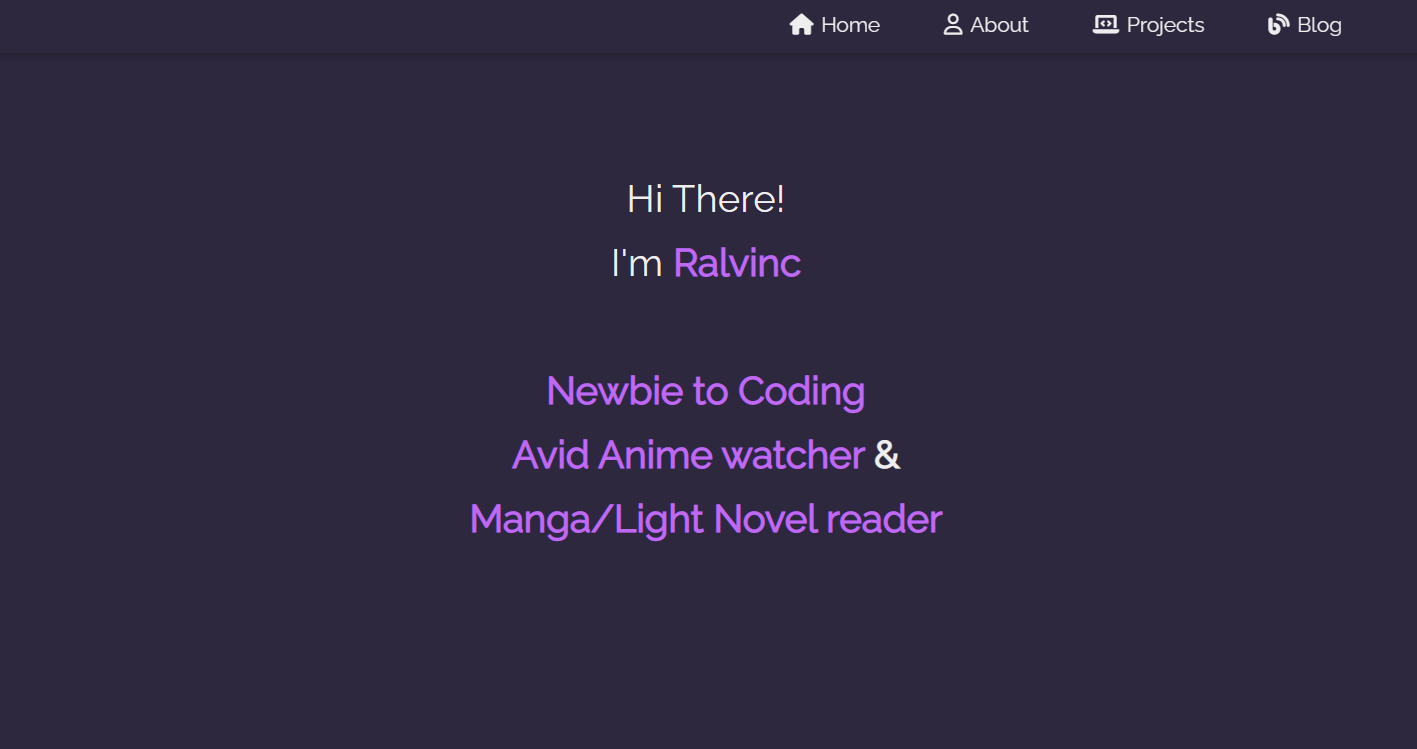
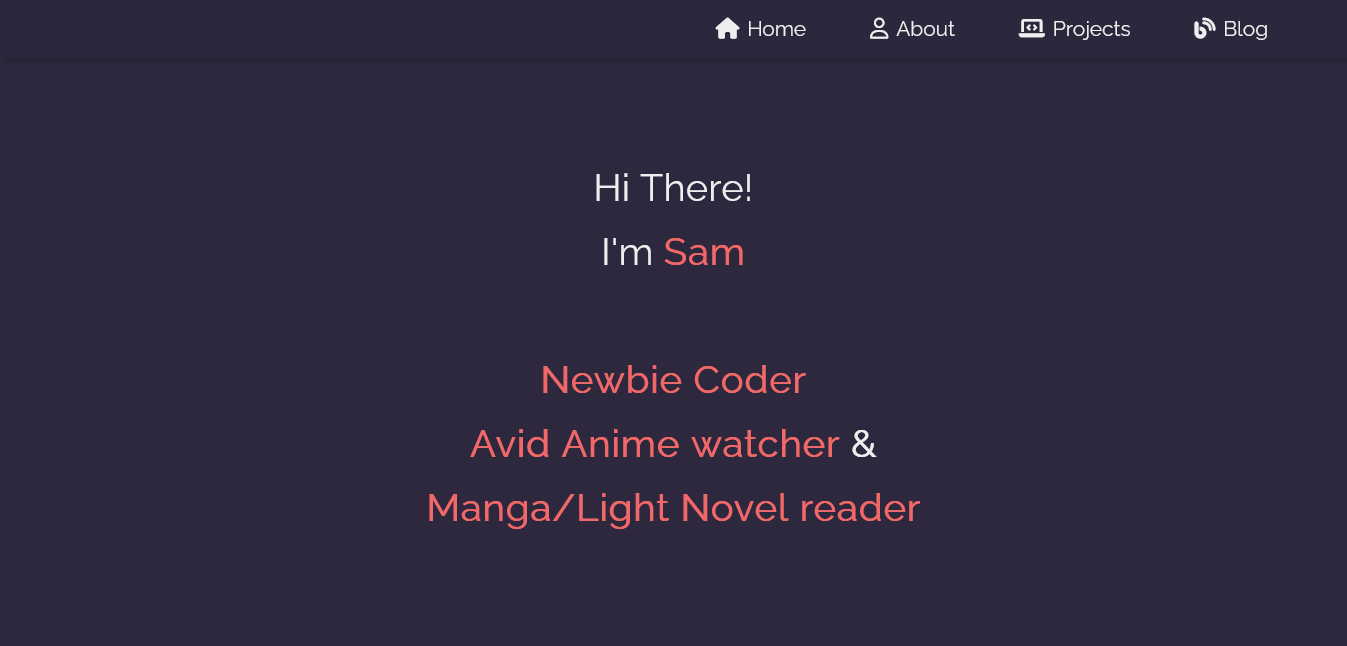
Add files via upload

diff --git a/src/components/Projects.jsx b/src/components/Projects.jsx
@@ -1,23 +1,82 @@
-function Projects() {
-  return (
-    <div className='projects'>
-      <div className='projects-title'>My Coding Projects (Under Maintenance)</div>
+import project0_image from '../images/website.png';
+import project1_image from '../images/samstree.png';
+import project2_image from '../images/bluearchive.png';
+import project3_image from '../images/my-website.png';
+import project4_image from '../images/homepage.png';
 
-      <div className='projects-wrapper'>
-        {Array.from({ length: 5 }, (_, i) => (
-          <div className="project" key={i}>
-            <img src={`https://static.wixstatic.com/media/90186d_6851a46df2de44f8ab80d4848dcbb585~mv2.gif`} alt={`Under maintenance`} />
+function Projects() {
+
+    return (
+      <div className='projects'>
+        <div className='projects-title'>My Coding Projects</div>
+
+        <div className='projects-wrapper'>
+          <div className="project">
+            <img src={project4_image} />
 
             <div className='project-links'>
-              <span>Under Maintenance</span>
+              <a href="https://github.com/KirixenYT/Gogoanime" target="_blank">Code</a>
+              <a href="http://gogoanimez.free.nf/" target="_blank">Demo</a>
             </div>
 
-            <p>This project is currently undergoing maintenance. We apologize for any inconvenience and appreciate your patience.</p>
-          </div>
-        ))}
-      </div>
-    </div>
-  );
-}
+            This is a <span><b>clone of gogoanime, improved version of it</b></span>, further you watch animes on here. This program uses a <span>API</span> for getting the animes and the <span>details</span>.<br /><br /><br />
+            Built with: <span>Php</span>
+          </div> 
 
-export default Projects;
+          <div className="project">
+            <img src={project3_image} />
+
+            <div className='project-links'>
+              <a href="https://github.com/KirixenYT/Portfolio" target="_blank">Code</a>
+              <a href="https://kirisam.vercel.app/" target="_blank">Demo</a>
+            </div>
+
+            This is my <span><b>personal website</b></span> where I give a brief introduction about myself along with a display of the coding projects I worked on. Additionally, it serves as a platform to share my personal thoughts and experiences related to anime.<br /><br />
+
+            Built with: <span>HTML</span> | <span>CSS</span> | <span>Javascript (React)</span>
+          </div>
+
+          <div className="project">
+            <img src={project2_image} />
+
+            <div className='project-links'>
+              <a href="https://github.com/KirixenYT/Blue-archive" target="_blank">Code</a>
+              <a href="https://blue-archive-phi.vercel.app/" target="_blank">Demo</a>
+            </div>
+
+            <b><span>Blue archive</span></b> is a website in blue archive style.
+            Users can change the background, and click on the link.<br /><br /><br /><br /><br />
+
+            Built with: <span>HTML</span> | <span>CSS</span> | <span>Vue</span> | <span>javascript</span>
+          </div> 
+
+          <div className="project">
+            <img src={project1_image} />
+
+            <div className='project-links'>
+              <a href="https://github.com/KirixenYT/samstree" target="_blank">Code</a>
+              <a href="https://samstree.netlify.app/" target="_blank">Demo</a>
+            </div>
+
+            <b><span>Sam's Tree</span></b> is a web application like Link tree where u can create ur own page by signing using google. The user can view other users links. You can <span>edit</span> your profile <span>bio</span> and add <span>links</span> too.<br /><br /><br /><br />
+
+            Built with: <span>Svelte</span> | <span>Typescript</span> | <span>Javascript</span>
+          </div> 
+
+          <div className="project">
+            <img src={project0_image} />
+
+            <div className='project-links'>
+              <a href="https://kirixen.vercel.app/" target="_blank">Demo</a>
+            </div>
+
+            This is my website, created to serve as the <b><span>website for getting the source code from my youtube channel for the Discord bot Tutorial</span></b>. Through this website, visitors can login, find codes, and easily locate contact details for further inquiries.<br /><br />
+
+            Built with: <span>HTML</span> | <span>CSS</span> | <span>Bootstrap</span>
+          </div>  
+        </div>
+      </div>
+    )
+  }
+  
+  export default Projects

diff --git a/src/style.css b/src/style.css
@@ -3,7 +3,7 @@
 :root {
     --bg-color-1: #2D283E;
     --bg-color-2: #40495D;
-    --color-1: #bf68f1;
+    --color-1: #f16868;
     --color-2: #564F6F;
     --color-3: #D1D7E0;
     --color-4: #eee;

diff --git a/src/components/Home.jsx b/src/components/Home.jsx
@@ -1,5 +1,5 @@
 // import { useState } from 'react'
-import home_image from '../images/albedo.png';
+import home_image from '../images/waifu.gif';
 
 function Home() {
 
